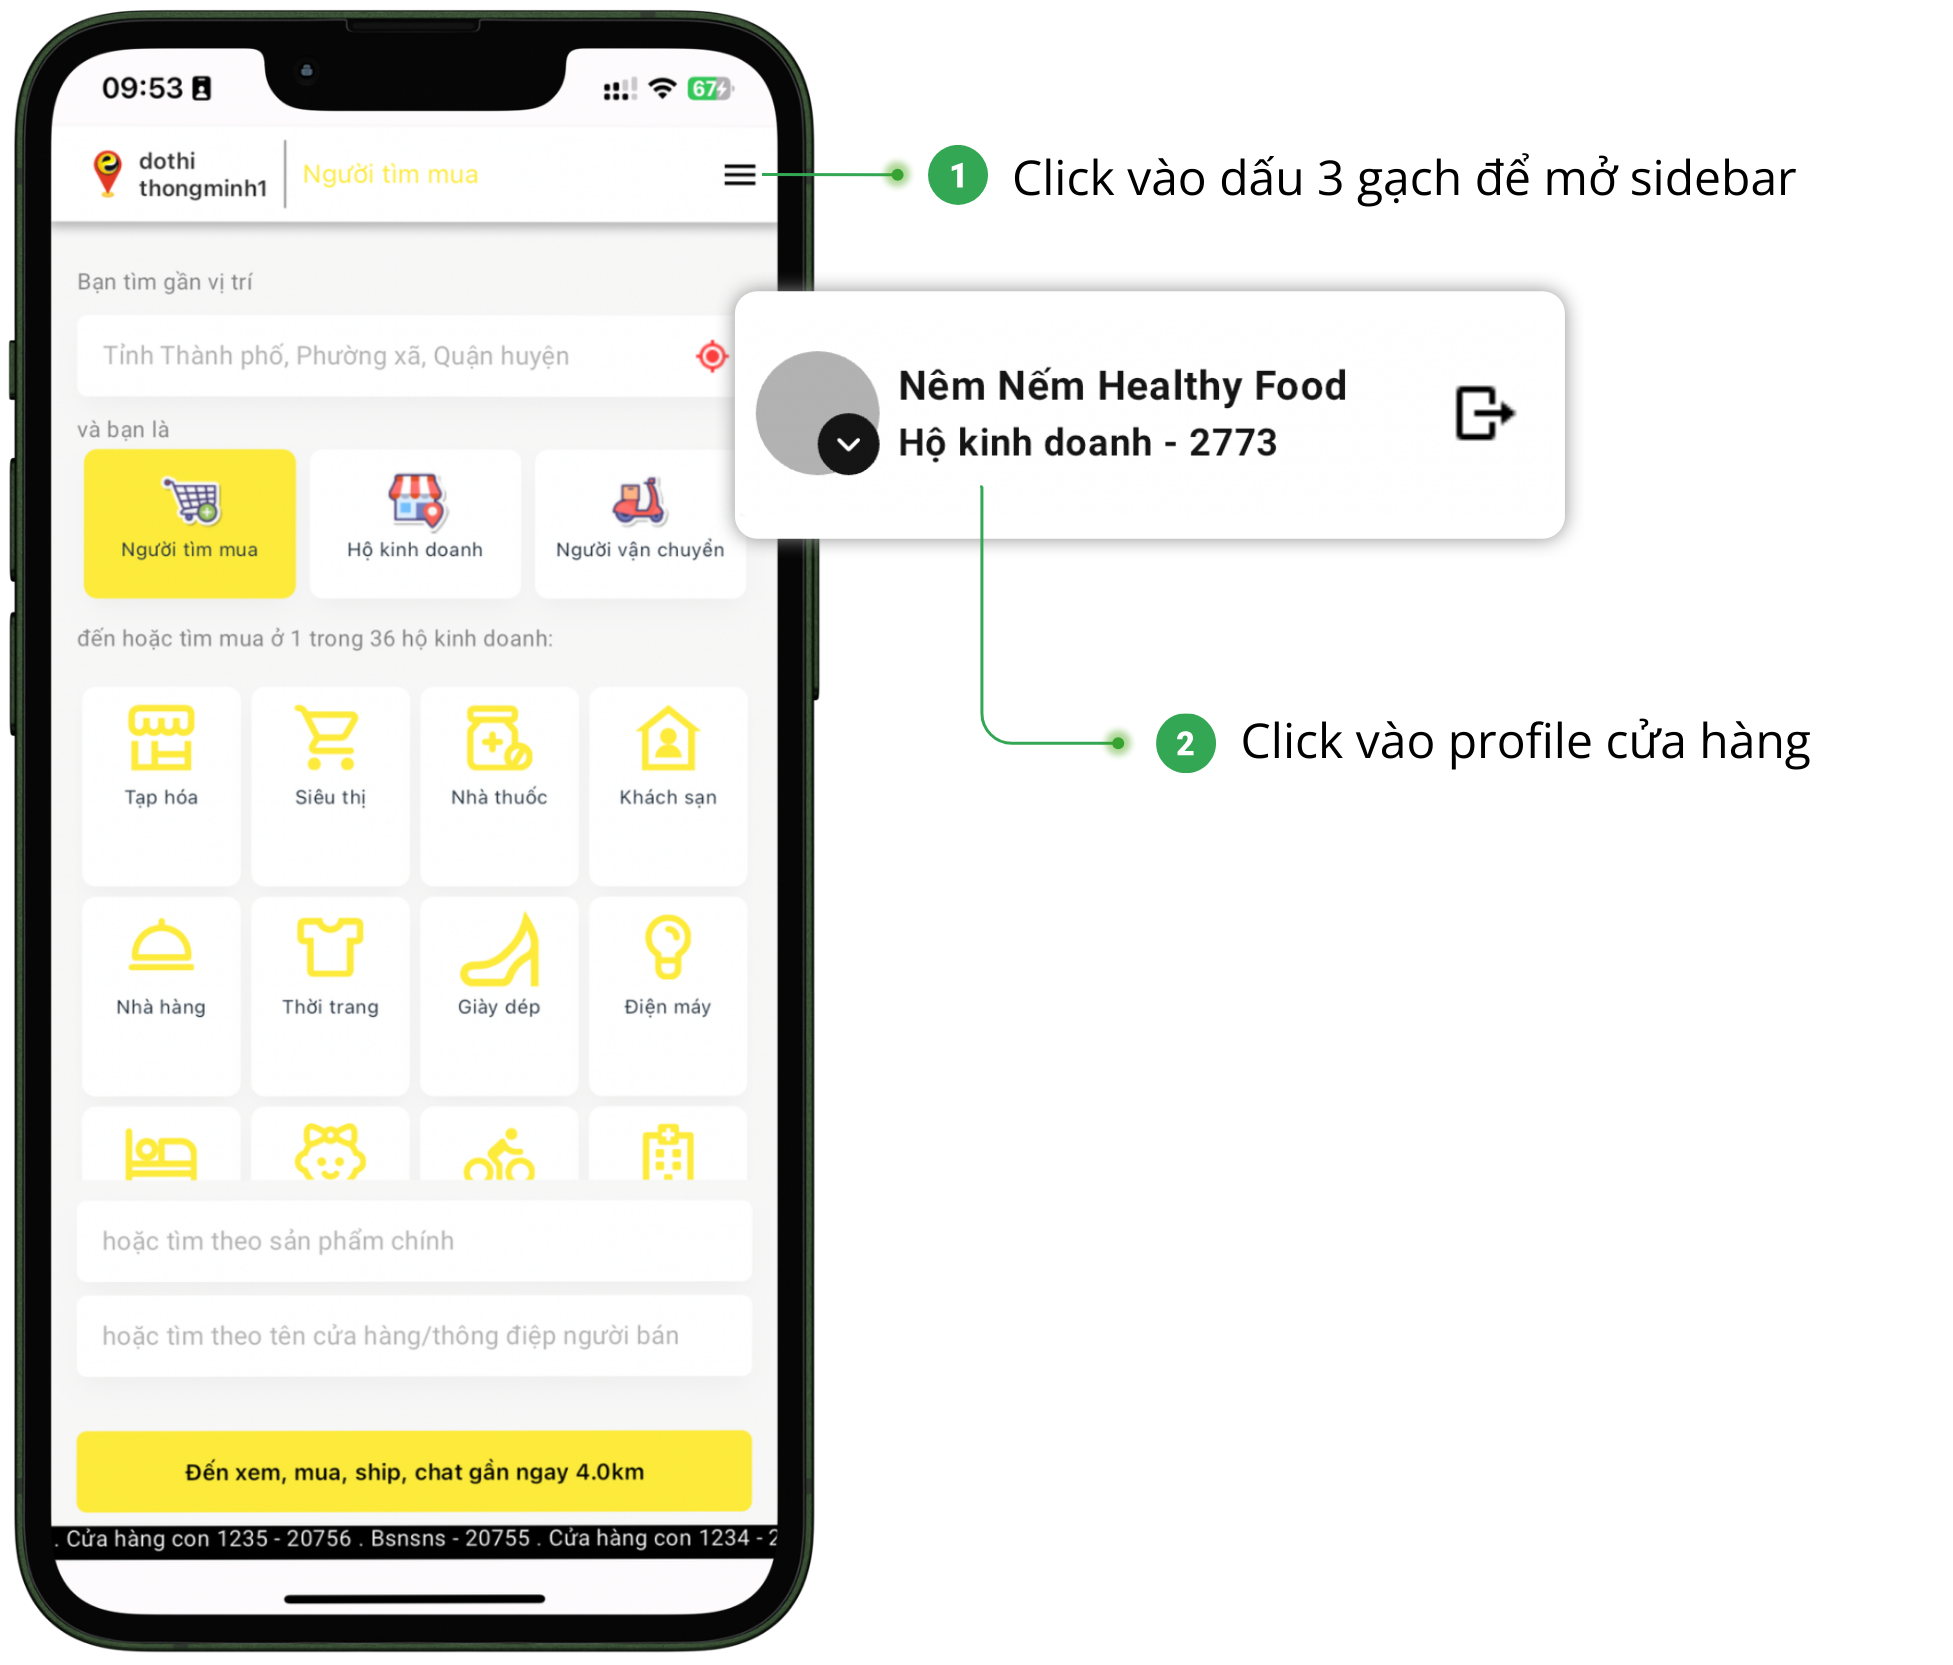
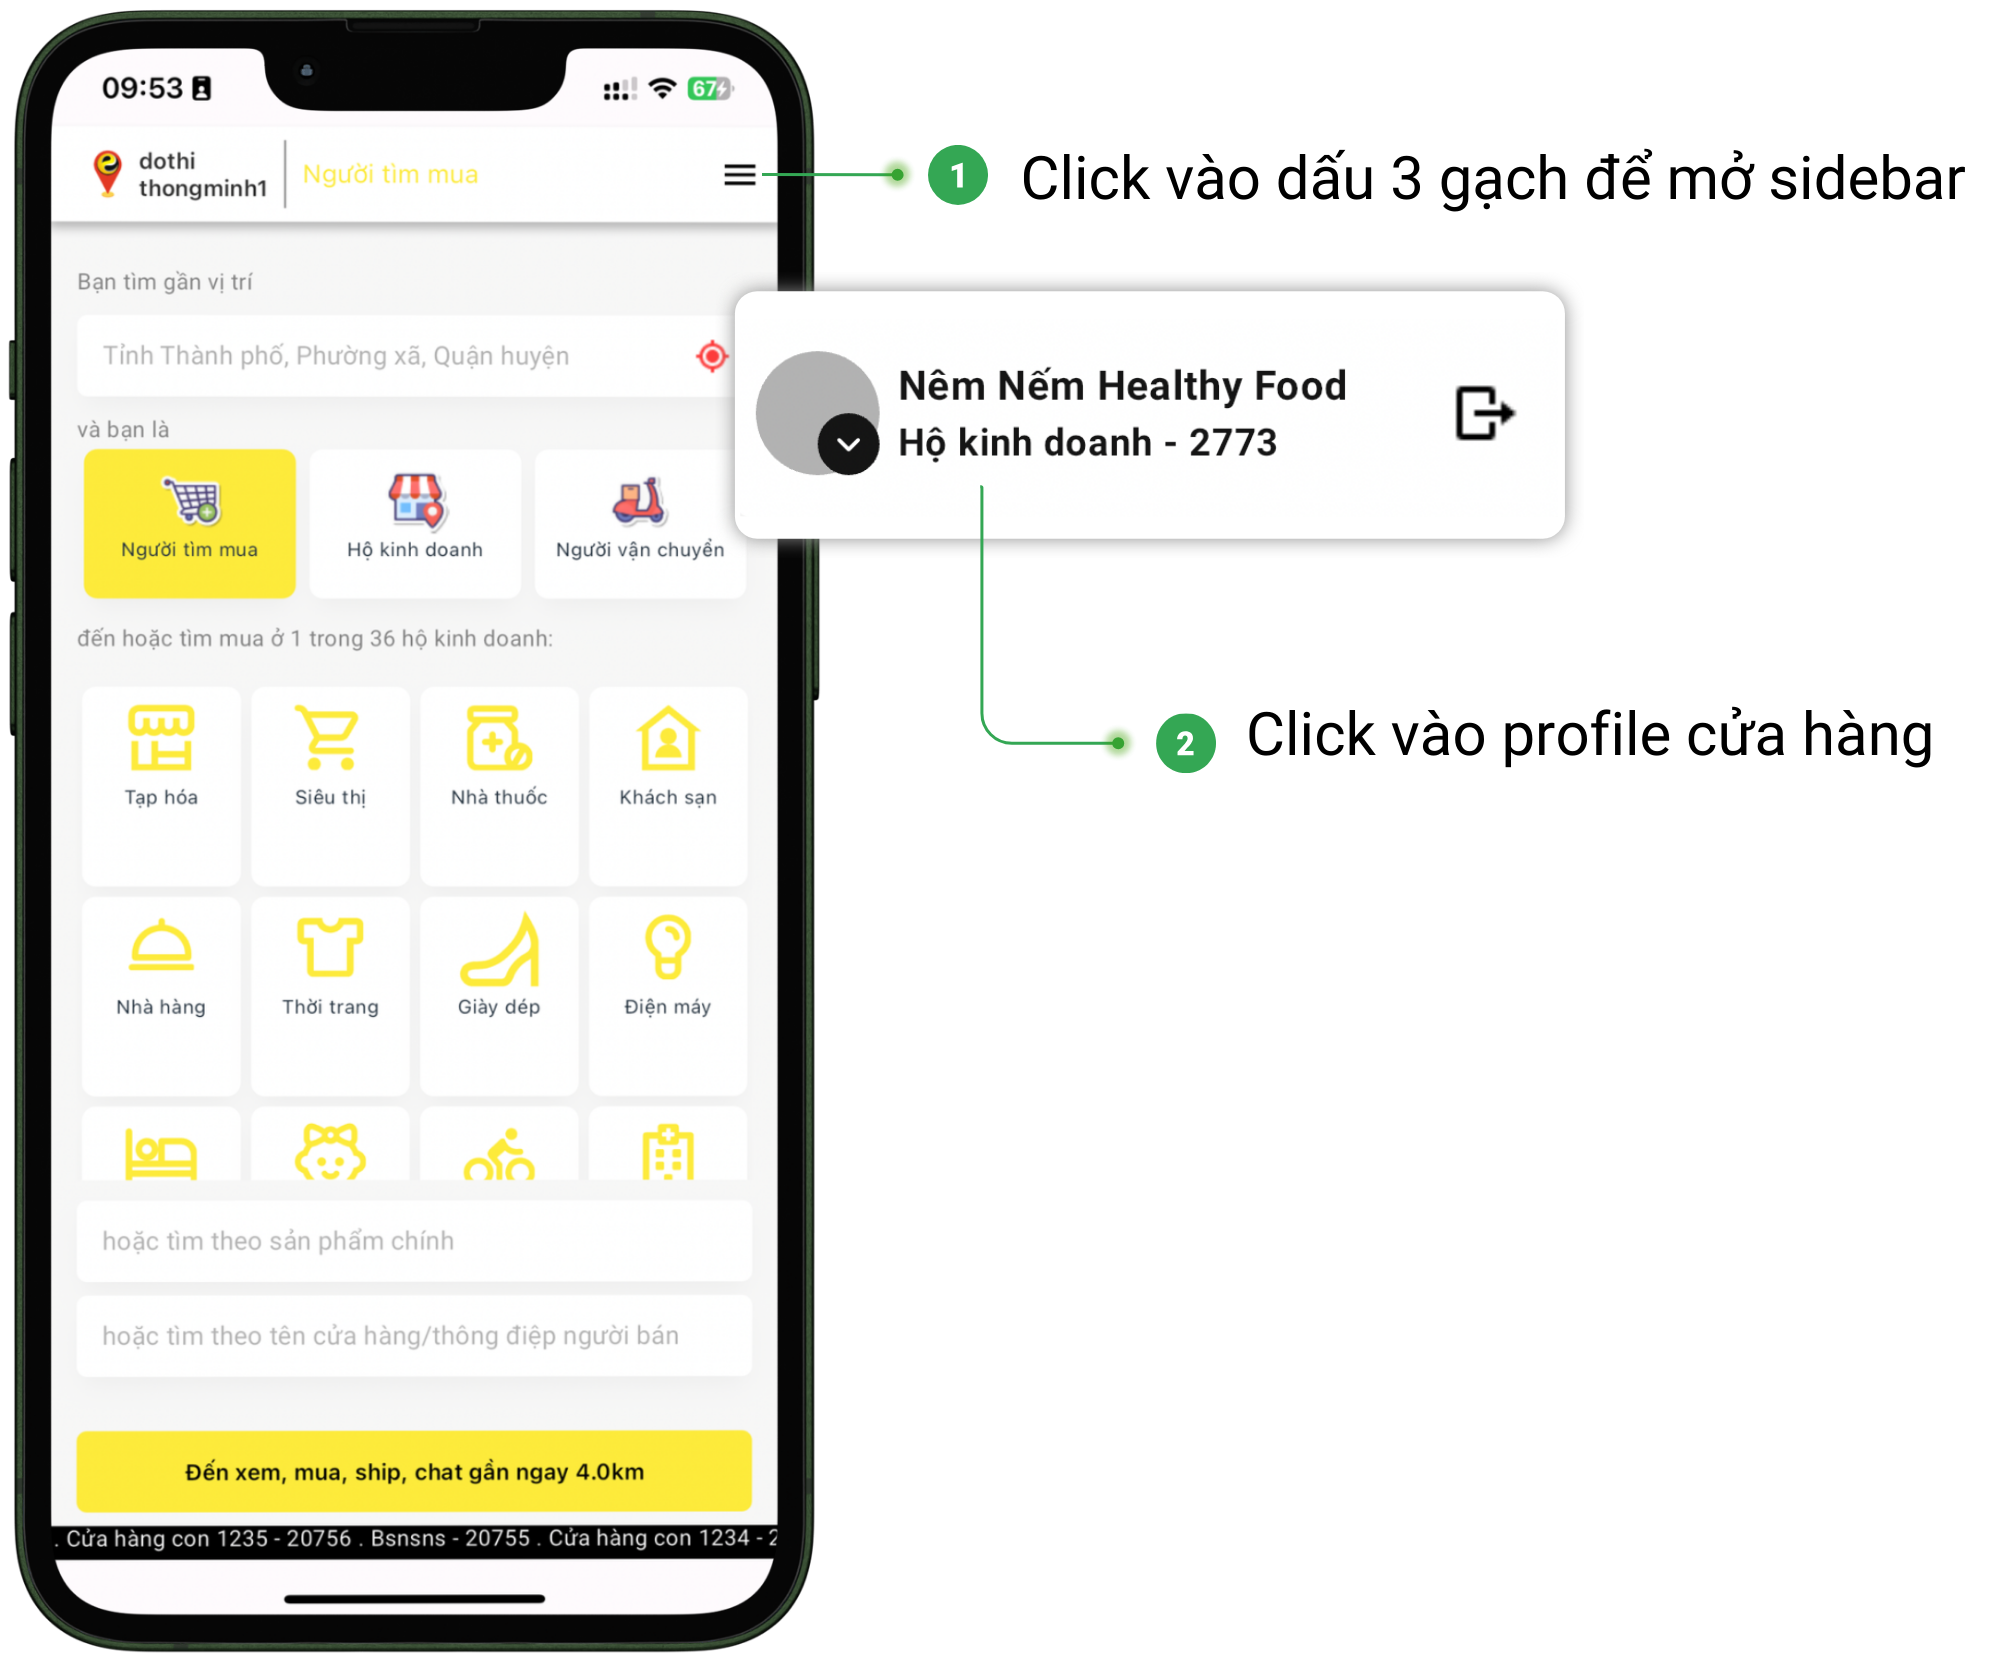
update image hdsd

diff --git a/pages/hdsd-nguoi-mua.html b/pages/hdsd-nguoi-mua.html
@@ -30,12 +30,12 @@
         </h2>
         <div class="flex flex-col md:flex-row justify-center gap-6">
           <div class="flex-1 flex flex-col items-center">
-            <img src="../assets/contents/nguoi-mua/1.png" alt="App Store Screenshot"
+            <img src="../assets/contents/nguoi-tim-mua/1.png" alt="App Store Screenshot"
               class="w-[260px] h-[500px] xs:w-full">
             <p class="text-center mt-2 text-sm">Tìm & tải ứng dụng dothithongminh1.vn trên Appstore/ CH Play</p>
           </div>
           <div class="flex-1 flex flex-col items-center">
-            <img src="../assets/contents/nguoi-mua/2.png" alt="Web App Screenshot"
+            <img src="../assets/contents/nguoi-tim-mua/2.png" alt="Web App Screenshot"
               class="w-[300px] h-[500px] xs:w-full">
             <p class="text-center mt-2 text-sm">Hoặc truy cập web dothithongminh1.vn</p>
           </div>
@@ -48,7 +48,7 @@
       <div class="flex flex-col items-center">
         <h2 class="text-2xl text-center font-semibold text-yellow-500 mb-4">Bước 2: Đăng ký tài khoản Người tìm mua
         </h2>
-        <img src="../assets/contents/nguoi-mua/3.png" alt="Đăng ký tài khoản" class="w-4/5 xs:w-full">
+        <img src="../assets/contents/nguoi-tim-mua/3.png" alt="Đăng ký tài khoản" class="w-4/5 xs:w-full">
       </div>
 
       <hr>
@@ -57,7 +57,7 @@
       <div class="flex flex-col items-center">
         <h2 class="text-2xl text-center font-semibold text-yellow-500 mb-4">Bước 3: Đăng nhập tài khoản Người tìm mua
         </h2>
-        <img src="../assets/contents/nguoi-mua/4.png" alt="Đăng nhập tài khoản" class="w-4/5 xs:w-full">
+        <img src="../assets/contents/nguoi-tim-mua/4.png" alt="Đăng nhập tài khoản" class="w-4/5 xs:w-full">
       </div>
 
       <hr>
@@ -66,7 +66,7 @@
       <div class="flex flex-col items-center">
         <h2 class="text-2xl text-center font-semibold text-yellow-500 mb-4">Bước 4: Tìm kiếm cửa hàng, loại hàng cần mua
         </h2>
-        <img src="../assets/contents/nguoi-mua/5.png" alt="Tìm kiếm" class="w-4/5 xs:w-full">
+        <img src="../assets/contents/nguoi-tim-mua/5.png" alt="Tìm kiếm" class="w-4/5 xs:w-full">
       </div>
 
       <hr>
@@ -75,7 +75,7 @@
       <div class="flex flex-col items-center">
         <h2 class="text-2xl text-center font-semibold text-yellow-500 mb-4">Bước 5: Thêm vào giỏ hàng, xác nhận mua hàng
         </h2>
-        <img src="../assets/contents/nguoi-mua/6.png" alt="Mua hàng" class="w-4/5 xs:w-full">
+        <img src="../assets/contents/nguoi-tim-mua/6.png" alt="Mua hàng" class="w-4/5 xs:w-full">
       </div>
 
       <hr>
@@ -83,7 +83,7 @@
       <!-- Bước 6 -->
       <div class="flex flex-col items-center">
         <h2 class="text-2xl text-center font-semibold text-yellow-500 mb-4">Bước 6: Theo dõi đơn hàng online </h2>
-        <img src="../assets/contents/nguoi-mua/7.png" alt="Theo dõi đơn hàng" class="w-4/5 xs:w-full">
+        <img src="../assets/contents/nguoi-tim-mua/7.png" alt="Theo dõi đơn hàng" class="w-4/5 xs:w-full">
         <p class="text-center mt-3 text-sm">Nhấn vào ô Thông báo ở cuối Sidebar để theo dõi các thông báo về đơn hàng
         </p>
       </div>
@@ -95,8 +95,8 @@
         <h2 class="text-2xl text-center font-semibold text-yellow-500 mb-4">Bước 7: Xác nhận kết thúc đơn hàng
         </h2>
         <div class="flex flex-col gap-4 items-center">
-          <img src="../assets/contents/nguoi-mua/8.png" alt="Xác nhận đơn hàng 1" class="w-4/5 xs:w-full">
-          <img src="../assets/contents/nguoi-mua/9.png" alt="Xác nhận đơn hàng 2" class="w-4/5 xs:w-full">
+          <img src="../assets/contents/nguoi-tim-mua/8.png" alt="Xác nhận đơn hàng 1" class="w-4/5 xs:w-full">
+          <img src="../assets/contents/nguoi-tim-mua/9.png" alt="Xác nhận đơn hàng 2" class="w-4/5 xs:w-full">
         </div>
       </div>
     </div>

diff --git a/pages/nguoi-tim-mua.html b/pages/nguoi-tim-mua.html
@@ -50,12 +50,12 @@
           </button>
           <div class="hidden flex-col md:flex-row xs:flex-row justify-center gap-6 px-4 py-2 pb-6 xs:gap-2">
             <div class="flex-1 flex flex-col items-center">
-              <img src="../assets/contents/nguoi-mua/1.png" alt="App Store Screenshot"
+              <img src="../assets/contents/nguoi-tim-mua/1.png" alt="App Store Screenshot"
                 class="w-[245px] h-[500px] xs:w-[80%] xs:h-[290px]">
               <p class="text-center mt-2 text-sm">Tìm & tải ứng dụng dothithongminh1.vn trên Appstore/ CH Play</p>
             </div>
             <div class="flex-1 flex flex-col items-center">
-              <img src="../assets/contents/nguoi-mua/2.png" alt="Web App Screenshot"
+              <img src="../assets/contents/nguoi-tim-mua/2.png" alt="Web App Screenshot"
                 class="w-[300px] h-[500px] xs:w-full xs:h-[290px]">
               <p class="text-center mt-2 text-sm">Hoặc truy cập web dothithongminh1.vn</p>
             </div>
@@ -72,7 +72,7 @@
             </svg>
           </button>
           <div class="hidden flex-col items-center px-4 py-2 pb-6 ">
-            <img src="../assets/contents/nguoi-mua/3.png" alt="Đăng ký tài khoản" class="w-4/5 xs:w-full">
+            <img src="../assets/contents/nguoi-tim-mua/3.png" alt="Đăng ký tài khoản" class="w-4/5 xs:w-full">
           </div>
         </div>
 
@@ -86,7 +86,7 @@
             </svg>
           </button>
           <div class="hidden flex-col items-center px-4 py-2 pb-6 ">
-            <img src="../assets/contents/nguoi-mua/4.png" alt="Đăng nhập tài khoản" class="w-4/5 xs:w-full">
+            <img src="../assets/contents/nguoi-tim-mua/4.png" alt="Đăng nhập tài khoản" class="w-4/5 xs:w-full">
           </div>
         </div>
 
@@ -100,7 +100,7 @@
             </svg>
           </button>
           <div class="hidden flex-col items-center px-4 py-2 pb-6 ">
-            <img src="../assets/contents/nguoi-mua/5.png" alt="Tìm kiếm" class="w-4/5 xs:w-full">
+            <img src="../assets/contents/nguoi-tim-mua/5.png" alt="Tìm kiếm" class="w-4/5 xs:w-full">
           </div>
         </div>
 
@@ -114,7 +114,7 @@
             </svg>
           </button>
           <div class="hidden flex-col items-center px-4 py-2 pb-6 ">
-            <img src="../assets/contents/nguoi-mua/6.png" alt="Mua hàng" class="w-4/5 xs:w-full">
+            <img src="../assets/contents/nguoi-tim-mua/6.png" alt="Mua hàng" class="w-4/5 xs:w-full">
           </div>
         </div>
 
@@ -128,7 +128,7 @@
             </svg>
           </button>
           <div class="hidden flex-col items-center px-4 py-2 pb-6 ">
-            <img src="../assets/contents/nguoi-mua/7.png" alt="Theo dõi đơn hàng" class="w-4/5 xs:w-full">
+            <img src="../assets/contents/nguoi-tim-mua/7.png" alt="Theo dõi đơn hàng" class="w-4/5 xs:w-full">
             <p class="text-center mt-3 text-sm">Nhấn vào ô Thông báo ở cuối Sidebar để theo dõi các thông báo về đơn
               hàng
             </p>
@@ -145,8 +145,8 @@
             </svg>
           </button>
           <div class="hidden flex-col items-center px-4 py-2 pb-6 ">
-            <img src="../assets/contents/nguoi-mua/8.png" alt="Xác nhận đơn hàng 1" class="w-4/5 xs:w-full">
-            <img src="../assets/contents/nguoi-mua/9.png" alt="Xác nhận đơn hàng 2" class="w-4/5 xs:w-full">
+            <img src="../assets/contents/nguoi-tim-mua/8.png" alt="Xác nhận đơn hàng 1" class="w-4/5 xs:w-full">
+            <img src="../assets/contents/nguoi-tim-mua/9.png" alt="Xác nhận đơn hàng 2" class="w-4/5 xs:w-full">
           </div>
         </div>
 
